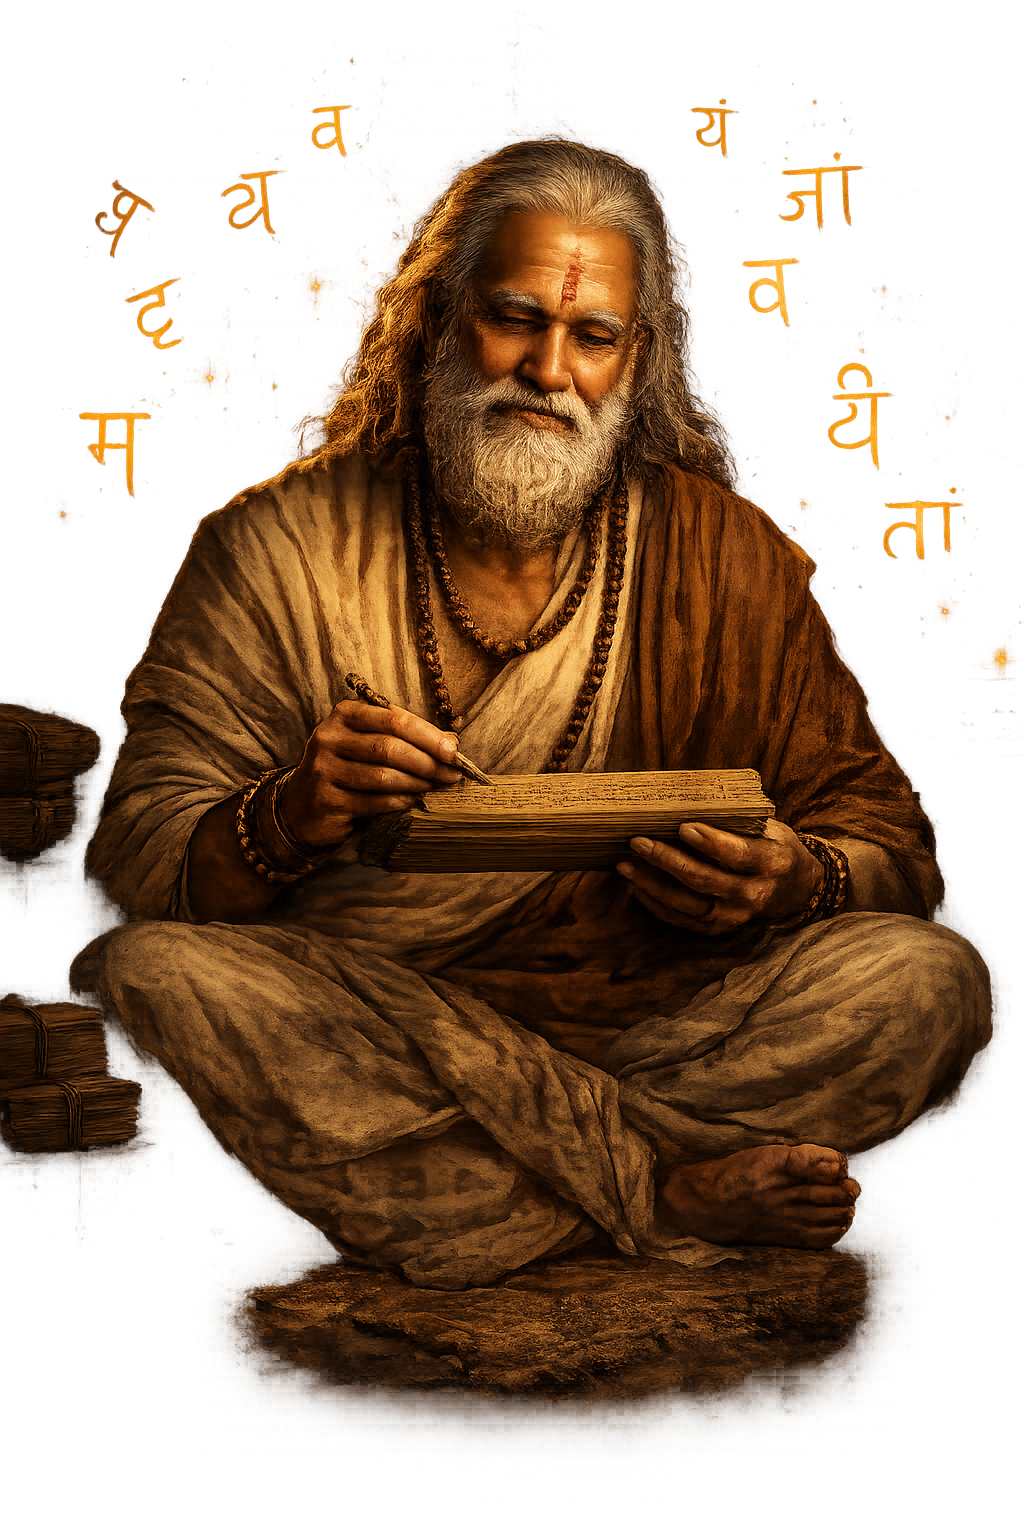
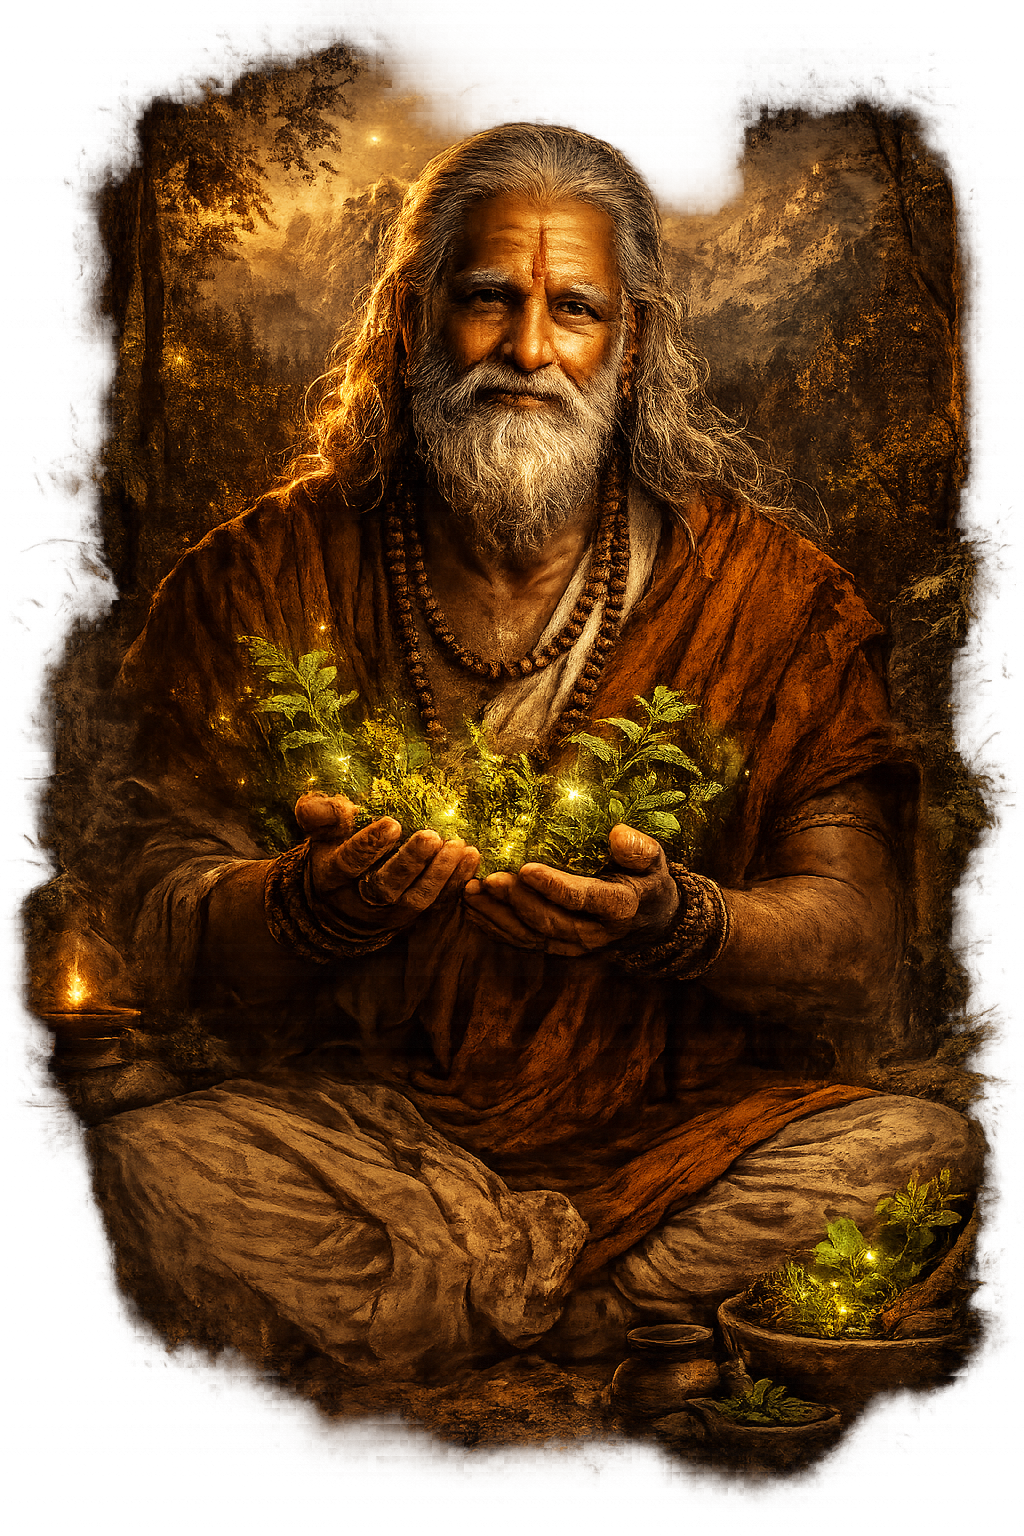
fix: correct page order + updated guru images + Sacred Path restored
Page order now matches exactly:
1. A Forgotten Secret
2. The Sacred Board
3. Serpents & Virtues
4. Two Sacred Dice
5. Dharma Dilemma
6. Knowledge Temples
7. The Ancient Gurus
8. The 8-Fold Sacred Path ← moved here (was after Dharma)
9. The Path to Moksha

Also: 7 guru portrait images updated with new AI-generated versions

diff --git a/src/tiers/moksha/MokshaGame.jsx b/src/tiers/moksha/MokshaGame.jsx
@@ -265,7 +265,7 @@ const STORY_PAGES=[
   en:"Every few squares, life stops you. A Dharma Dilemma appears. An ancient crossroads. These are not simple questions. They are the same moral choices that destroyed kings and elevated sages. Karna gave away his divine armour to a beggar. Knowing it would kill him. Eklavya cut off his own thumb for his guru. Yudhishthira told a half-truth to win a war. These choices are yours now. Choose Punya, the righteous path, and move back but grow purer. Choose Papa, the easy path, advance faster but sin accumulates. The board does not care about your intentions. Only your karma matters at the final gate.",
   hi:"हर कुछ खानों पर, जीवन तुम्हें रोकता है। एक धर्म दुविधा प्रकट होती है। एक प्राचीन चौराहा। ये सरल प्रश्न नहीं हैं। ये वही नैतिक चुनाव हैं जिन्होंने राजाओं को नष्ट किया और ऋषियों को ऊपर उठाया। कर्ण ने अपना दिव्य कवच एक भिखारी को दिया। जानते हुए कि इससे मृत्यु होगी। एकलव्य ने गुरु के लिए अपना अंगूठा काटा। युधिष्ठिर ने युद्ध जीतने के लिए आधा सच बोला। ये चुनाव अब तुम्हारे हैं।",
   visuals:[{type:"dharmaStage"}]},
-  {title:"The 8-Fold Sacred Path",icon:"🪷",
+  // ═══ NEW PAGES: Temples, Gurus ═══
   bullets_en:[
     {icon:"🪷",accent:"#f0d050",title:"Above Square 100 — A Different World",text:"Once you pass square 100, dice rolls no longer matter. You move exactly ONE step per turn."},
     {icon:"📖",accent:"#c0a0e0",title:"Patanjali's Ashtanga Yoga",text:"Each of the 8 steps tests your knowledge of yoga and dharma. Answer correctly — gain Punya. Fail — gain Papa and fall back."},
@@ -319,6 +319,23 @@ const STORY_PAGES=[
   en:"Every eight turns, an ancient Indian genius materializes from history itself. Aryabhata, who calculated the Earth's circumference to 99.8% accuracy when the world thought the Earth was flat. Sushruta, who performed surgery 2,600 years ago. Chanakya, whose statecraft manual makes Machiavelli look like a child. Panini, whose grammar rules are the world's first programming language. Patanjali, who mapped the architecture of consciousness itself. Answer their question correctly and receive their unique blessing — a real gameplay power that changes your fortune. Answer wrongly, and the Guru departs in disappointment, leaving you with the weight of Papa.",
   hi:"हर आठवें मोड़ पर, एक प्राचीन भारतीय प्रतिभा इतिहास से प्रकट होती है। आर्यभट, सुश्रुत, चाणक्य, पाणिनि, पतंजलि। उनके प्रश्न का सही उत्तर दो और उनका आशीर्वाद पाओ — एक वास्तविक खेल शक्ति। गलत उत्तर दो और गुरु निराश होकर चले जाते हैं, पाप छोड़कर।",
   visuals:[{type:"guruGrid"}]},
+
+  {title:"The 8-Fold Sacred Path",icon:"🪷",
+  bullets_en:[
+    {icon:"🪷",accent:"#f0d050",title:"Beyond the Material World",text:"After Square 100, no dice shortcuts. No planetary effects. Move one step per turn. Each step tests your soul."},
+    {icon:"🧘",accent:"#a0c8e0",title:"Patanjali's 8 Gates",text:"Yama · Niyama · Asana · Pranayama · Pratyahara · Dharana · Dhyana · Moksha — each demands wisdom."},
+    {icon:"📿",accent:"#c0a0e0",title:"Riddles of the Soul",text:"Each gate presents a riddle. Answer correctly: +2 Punya and advance. Answer wrongly: Papa, and step back."},
+    {icon:"ॐ",accent:"#f0d050",title:"The Final Gate",text:"At Square 107, Dhyana, you must roll an exact 1 to reach Moksha. Only perfect surrender opens the last door."},
+  ],
+  bullets_hi:[
+    {icon:"🪷",accent:"#f0d050",title:"भौतिक संसार के पार",text:"खाना 100 के बाद, कोई शॉर्टकट नहीं। कोई ग्रह प्रभाव नहीं। एक बारी में एक कदम। हर कदम आत्मा की परीक्षा।"},
+    {icon:"🧘",accent:"#a0c8e0",title:"पतंजलि के 8 द्वार",text:"यम · नियम · आसन · प्राणायाम · प्रत्याहार · धारणा · ध्यान · मोक्ष — हर एक ज्ञान मांगता है।"},
+    {icon:"📿",accent:"#c0a0e0",title:"आत्मा की पहेलियां",text:"हर द्वार एक पहेली प्रस्तुत करता है। सही: +2 पुण्य और आगे। गलत: पाप, और पीछे।"},
+    {icon:"ॐ",accent:"#f0d050",title:"अंतिम द्वार",text:"खाना 107 पर, ध्यान, सटीक 1 फेंकना होगा। केवल पूर्ण समर्पण अंतिम दरवाज़ा खोलता है।"},
+  ],
+  en:"After Square 100, the rules change completely. You have transcended the material world. The Navagraha cannot touch you here. On the Ashtanga Marga, you move one step at a time. Each step, a gate. Each gate, a riddle drawn from the teachings of that path. Yama, self-restraint. Niyama, discipline. Asana, steadiness. Pranayama, life-force. Pratyahara, withdrawal of the senses. Dharana, single-pointed concentration. Dhyana, meditation. And at last, Square 108, Moksha, liberation from the wheel of birth and death. But at Square 107, the gate of Dhyana demands perfection. You must roll an exact 1. Only absolute surrender opens the final gate.",
+  hi:"खाना 100 के बाद, नियम बदल जाते हैं। तुम भौतिक संसार को पार कर चुके हो। नवग्रह तुम्हें नहीं छू सकते। अष्टांग मार्ग पर एक-एक कदम चलते हो। यम, नियम, आसन, प्राणायाम, प्रत्याहार, धारणा, ध्यान। और अंत में, खाना 108 पर मोक्ष — जन्म और मृत्यु के चक्र से मुक्ति। लेकिन खाना 107 पर, ध्यान का द्वार सटीकता मांगता है। सटीक 1 फेंकना होगा। केवल पूर्ण समर्पण अंतिम द्वार खोलता है।",
+  visuals:[{type:"sacredPathStage"}]},
 
   {title:"The Path to Moksha",icon:"ॐ",
   bullets_en:[
